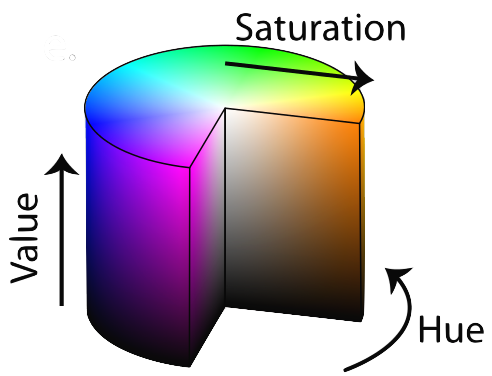
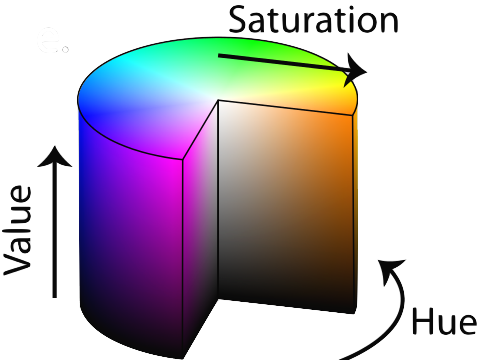
add example images

Changed region(s): [[0.0, 0.0, 1.0, 1.0]]

diff --git a/README.md b/README.md
@@ -4,6 +4,8 @@ This repository contains a set of computer science taster coding excercises for 
 
 ## Getting Started
 
+![RGB Diagram](img/vs-code-python-setup.png)
+
 Four quick steps to get you started:
 
 1. Ensure the computer is booted into Linux
@@ -13,6 +15,8 @@ Four quick steps to get you started:
     * Click _"Selection a language"_ and choose _"Python"_
     * It will then say _"Do you want to install the recommended extensions for Python?"_
     * Click _"Install"_ and wait ~1 minute whilst everything is setup for you
+
+![RGB Diagram](img/vs-code-python-installed.png)
 
 **You are now ready to start coding** - make sure you have all the supporting materials to hand, and go to **Task 1**
 
@@ -25,6 +29,8 @@ _[ All supplied if you doing this as a visitor to [Computer Science at Durham Un
 - 1 x green covered chroma-keying material
 
 ## Task 1 - Capture a Live Camera Image
+
+![RGB Diagram](img/vs-code-python-run.png)
 
 Once you have completed the **Getting Started** steps:
 
@@ -49,7 +55,7 @@ By varying the filter sizes you can also observe the impact on the processing ti
 
 Computers normally store an image as a giant matrix with three values for each pixel: the intensity of Red, Green and Blue (RGB values) that combine to make the colour of a pixel. RGB values are a simple but fairly robust method of identifying an object is by colour. However you may want to specify the colour in a way that isn't too much affected by how light or dark the lighting on an object is, or how washed out or exposed the image is. This is tricky when specifying ranges of RGB values to identify image regions, but can be done by looking at the Hue (primary colour/wavelength) of the object by transforming the RGB image to a Hue, Saturation and Value (HSV) representation.
 
-&nbsp;&nbsp;&nbsp;&nbsp;&nbsp;&nbsp;&nbsp;![HSV Diagram](img/HSV.png)
+![RGB Diagram](img/RGB.png)![HSV Diagram](img/HSV.png)
 
 - copy and paste the code from this example [hsv_colour.py](hsv_colour.py) into your Visual Studio Code window (replacing all earlier code) again save (File > Save)
 - hold up the (green) chroma-keying material and run it (click _"Run > Run Without Debugging"_)
@@ -100,6 +106,8 @@ To try this out:
 - bring the (green) chroma-keying material into view and _left click_ on it to select its Hue as before
 
 You should now see objects that are covered by the chroma-keying material are cloaked using information background from the captured scene background image.
+
+![cloaking 1](img/cloaked-example-01.png)![cloaking 1](img/cloaked-example-02.png)
 
 You can reset the background image by _pressing the space key_; you can _right click_ to reset the Hue selection
 
